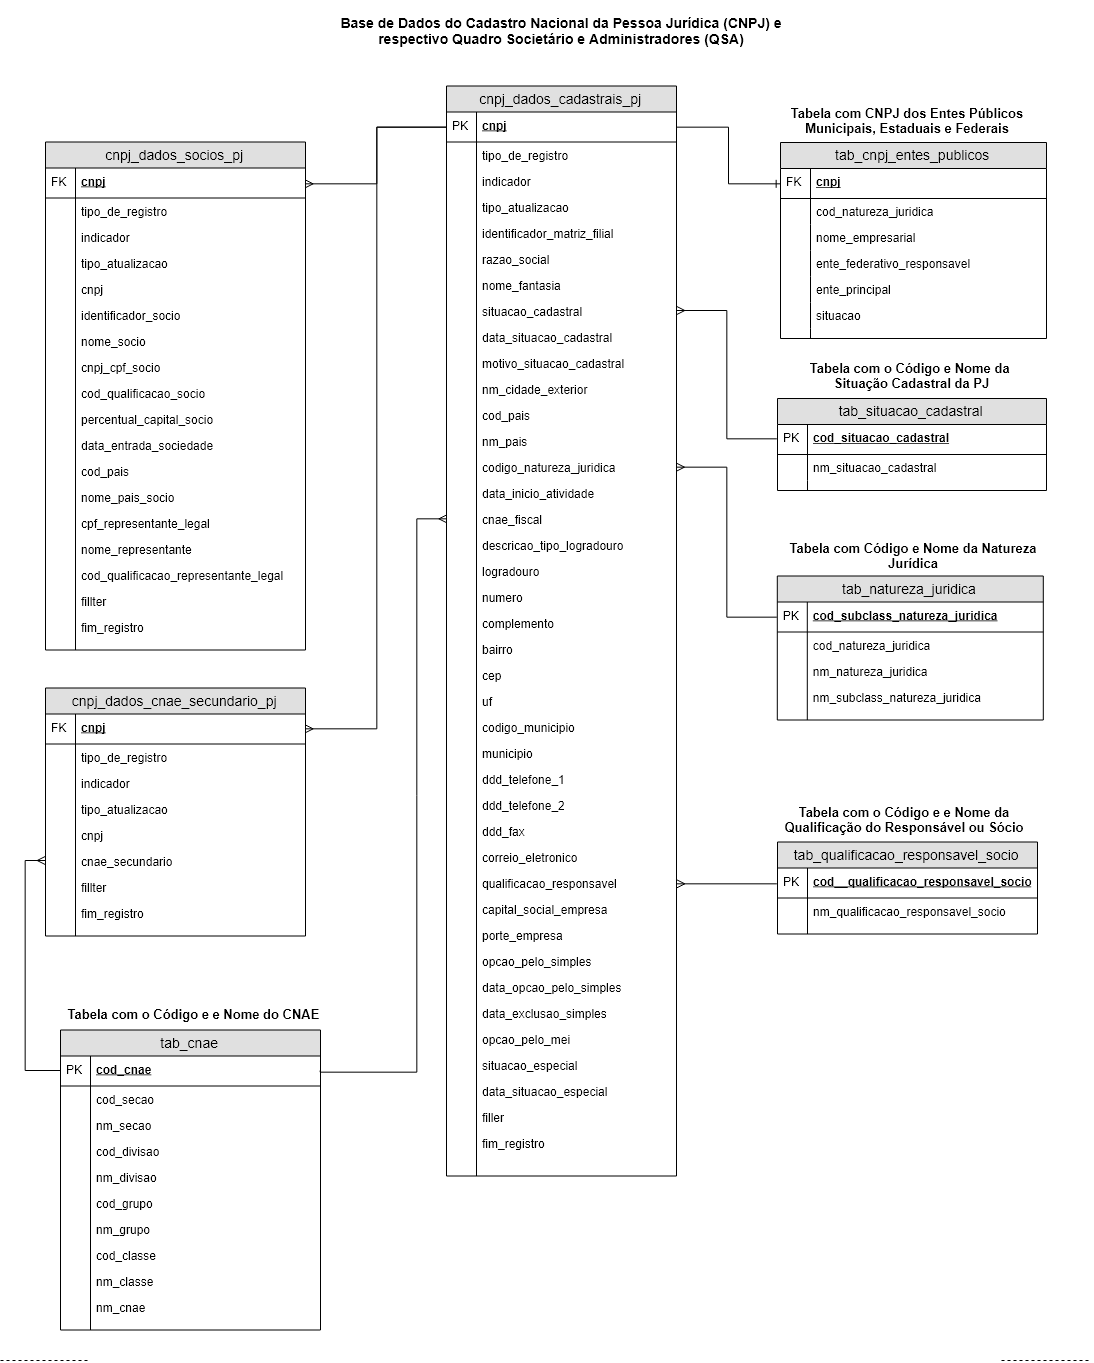
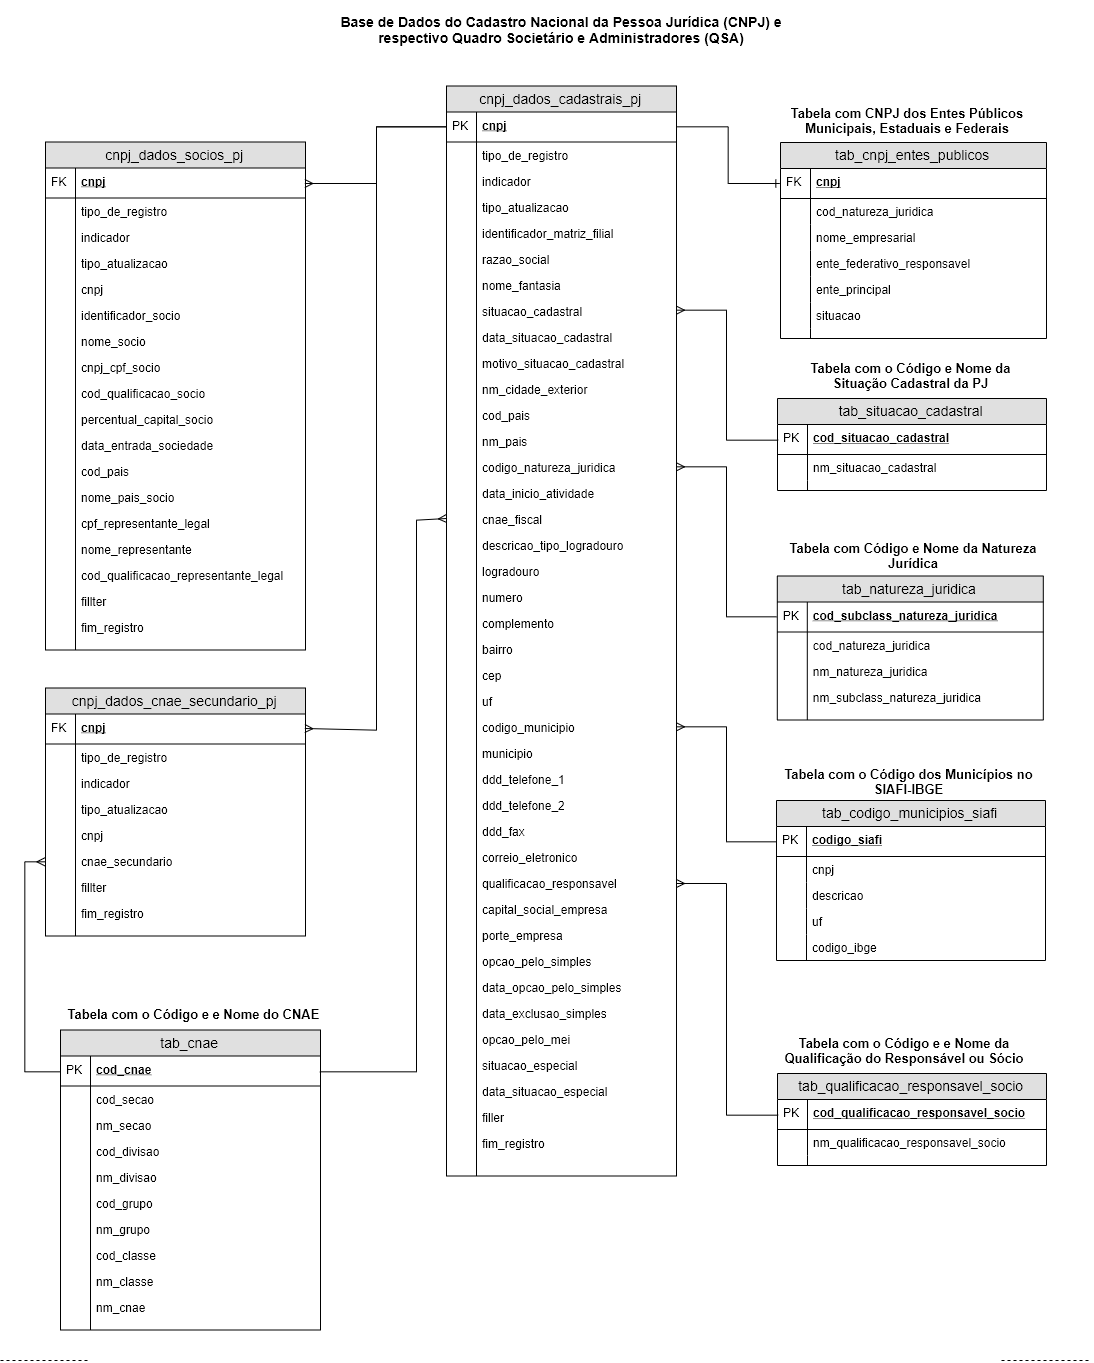
Versão 0.1.7

diff --git a/README.md b/README.md
@@ -90,25 +90,16 @@ realizadas no área `issues` do GitHub.
 
 ## Preparativos
 
-1 - Baixe os arquivos (.zip) da base de dados do CNPJ no [site da
-Receita
-Federal](https://receita.economia.gov.br/orientacao/tributaria/cadastros/cadastro-nacional-de-pessoas-juridicas-cnpj/dados-publicos-cnpj).
+1 - Baixe os arquivos (.zip) da base de dados do CNPJ no [site da Receita Federal](https://receita.economia.gov.br/orientacao/tributaria/cadastros/cadastro-nacional-de-pessoas-juridicas-cnpj/dados-publicos-cnpj).
 
-2 - Salve o arquivo ‘.zip’ no diretório que será utilziado para o
-processamento dos dados.
+2 - Salve o arquivo '.zip' no diretório que será utilziado para o processamento dos dados.
 
-3 - Descompacte os arquivos no diretório. Talvez os arquivos tenhom
-nomes semelhantes a ‘K3241.K03200DV.D90607.L00001’. *OBS: Os arquivos
-descompactados tem mais de 85Gb. Verifique se há espaço suficiente no
-seu HD*
+3 - Descompacte os arquivos no diretório. Talvez os arquivos tenhom nomes semelhantes a 'K3241.K03200DV.D91111.L00001'.
+*OBS: Os arquivos descompactados tem mais de 96Gb. Verifique se há espaço suficiente no seu HD*
 
-4 - Adicione a extensão ‘.txt’ no final do nome do arquivo. Ex:
-‘K3241.K03200DV.D90607.L00001.txt’
+4 - IMPORTANTE: Crie uma pasta específica para armazenar somente os arquivos.
 
-5 - IMPORTANTE: Crie uma pasta específica para armazenar somente os
-arquivos ‘.txt’.
-
-6 - Instale e execute o pacote. Abaixo, seguem algumas sugestões:
+5 - Instale e execute o pacote. Abaixo, seguem algumas sugestões:
 
 ## Executando o pacote
 
@@ -164,7 +155,7 @@ qsacnpj::gerar_bd_cnpj(path_arquivos_txt = "D:/qsa_cnpj",
 
 Resultado esperado: No teste realizado sem aplicar o filtro
 ‘localizar\_cnpj’, o código executou com sucesso o tratamento e
-organização de todos os dados no tempo de 3 hora e 30 minutos, gerando
+organização de todos os dados no tempo de 4 hora e 30 minutos, gerando
 um arquivo SQLite de +/- 24Gb, usando um notebook com processador i7 5ª
 Geração, 16Gb DDR3 e disco HDD.
 
@@ -172,7 +163,8 @@ Ao final do processamento, o usuário visualizará, no diretório
 escolhido, o arquivo SQLite com 03 tabelas (`cnpj_dados_cadastrais_pj`,
 `cnpj_dados_socios_pj` e `cnpj_dados_cnae_secundario_pj`), ou, caso opte
 pelo CSV, 03 arquivos CSV `cnpj_dados_cadastrais_pj.csv`,
-`cnpj_dados_socios_pj.csv` e `cnpj_dados_cnae_secundario_pj.csv`.
+`cnpj_dados_socios_pj.csv` e `cnpj_dados_cnae_secundario_pj.csv`, dentre
+outras tabelas que forem adicionadas com as atualizações do pacote.
 
 Informações técnicas complementares podem ser obtidas na documentação do
 pacote ao digitar `?qsacnpj`
@@ -214,6 +206,14 @@ detalhar a Bases de Dados do CNPJ
     Subclasses 2.3](https://concla.ibge.gov.br/classificacoes/por-tema/atividades-economicas)
     foi incluída dentro do pacote, podendo ser acessada pela variável
     `qsacnpj::tab_cnae`.
+    
+    
+Adicionamos, no pacote, um conjunto de [Tabelas complementares
+disponíveis no site do Tesouro Nacional](http://www.tesourotransparente.gov.br/ckan/dataset/lista-de-municipios-do-siafi)
+para enriquecer e detalhar a Bases de Dados do CNPJ.
+
+  - [Tabela com o Código dos Municípios do SIAFI](http://www.tesourotransparente.gov.br/ckan/dataset/lista-de-municipios-do-siafi), foi incluída dentro do pacote, podendo ser acessada pela variável
+  `qsacnpj::tab_codigo_municipios_siafi`.
 
 # Base de Dados do CNPJ tratada
 
@@ -239,6 +239,20 @@ SQLite`, o tempo de carregamento do banco de dados no programa pode
 demorar de 3 a 7 minutos a depender das configurações do computador,
 caso o usuário opte pela opção de “Nevegar pela tabela”. Se optar por
 realizar consultas SQL, a base estará pronta para uso imediato.
+
+  - Base de dados liberada pela RFB no dia **23/11/2019** e Processada
+    com a versão 0.1.7 do pacote:
+    
+    [Base de Dados do CNPJ - SQLite](http://bit.ly/34DaBag)
+    
+    [Base de Dados do CNPJ - CSV](http://bit.ly/2Drclrj) (*OBS:
+    Delimitador do CSV: ‘\#’*)
+    
+    Informações sobre a Base de Dados:
+    
+      - Número de CNPJ: **42.484.599**
+
+-----
 
   - Base de dados liberada pela RFB no dia **07/08/2019** e Processada
     com a versão 0.1.6 do pacote:
@@ -314,6 +328,16 @@ compõem a Base de Dados)*
     execução em mas 2 horas.
 
 ### Atualizações
+
+#### qsacnpj - versão: 0.1.7
+
+**1 - MELHORIAS:**
+1.1 - Adicionamos, no pacote, uma [Tabela com o Código dos Municípios do SIAFI](http://www.tesourotransparente.gov.br/ckan/dataset/lista-de-municipios-do-siafi), podendo ser acessada pela variável `tab_codigo_municipios_siafi`. Essa tabela é **extremamente relevante**, pois será possível, agora, realizar a correspondência entre os códigos dos municípios contidos na base de dados do CNPJ (que são os códigos atribuídos pelo SIAFI - OBS: Sistema Integrado de Administração Financeira do Governo Federal) com o código dos Municípios do IBGE. Ou seja, essa base de dados disponibilizada pelo Tesouro Nacional é uma tabela de correspondência entre os códigos dos municípios da base do CNPJ (os mesmos usados no SIAFI) e os códigos da tabela do IBGE.
+
+
+**2 - BUGs Corrigidos:**
+2.1 - A coluna `tipo_de_registro` não estava sendo incluída na tabela `cnpj_dados_cnae_secundario_pj`.
+
 
 #### qsacnpj - versão: 0.1.6
 

diff --git a/NEWS.md b/NEWS.md
@@ -1,11 +1,9 @@
 # Atualizações
 
-
-
 #### qsacnpj - versão: 0.1.7
 
 **1 - MELHORIAS:**
-1.1 - Adicionamos, no pacote, uma [Tabela com o código dos Municípios do SIAFI](http://www.tesourotransparente.gov.br/ckan/dataset/lista-de-municipios-do-siafi), foi incluída dentro do pacote, podendo ser acessada pela variável `tab_codigo_municipios_siafi`. Essa tabela é extremamente relevante, pois será possível, agora, realizar a correspondência entre os códigos dos municípios contidos na base de dados do CNPJ (que são os códigos atribuídos pelo SIAFI - OBS: Sistema Integrado de Administração Financeira do Governo Federal) com o código dos Municípios do IBGE. Ou seja, essa base de dados disponibilizada pelo Tesouro Nacional é uma tabela de correspondência entre os códigos dos municípios da base do CNPJ (os mesmos usados no SIAFI) e os códigos da tabela do IBGE.
+1.1 - Adicionamos, no pacote, uma [Tabela com o Código dos Municípios do SIAFI](http://www.tesourotransparente.gov.br/ckan/dataset/lista-de-municipios-do-siafi), podendo ser acessada pela variável `tab_codigo_municipios_siafi`. Essa tabela é extremamente relevante, pois será possível, agora, realizar a correspondência entre os códigos dos municípios contidos na base de dados do CNPJ (que são os códigos atribuídos pelo SIAFI - OBS: Sistema Integrado de Administração Financeira do Governo Federal) com o código dos Municípios do IBGE. Ou seja, essa base de dados disponibilizada pelo Tesouro Nacional é uma tabela de correspondência entre os códigos dos municípios da base do CNPJ (os mesmos usados no SIAFI) e os códigos da tabela do IBGE.
 
 
 **2 - BUGs Corrigidos:**
